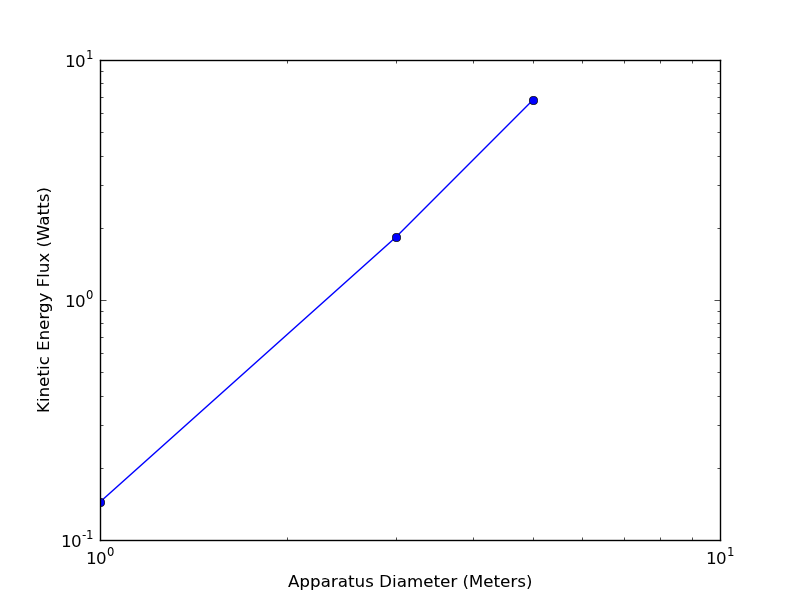
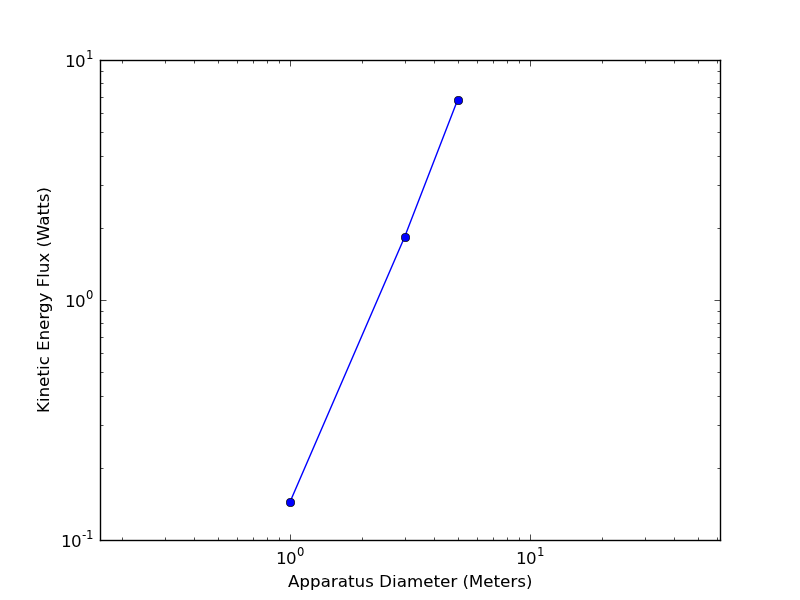
updating image, previous was wong (aspect ratio was off)

diff --git a/disputatio/causa/scaling/proposal.tex b/disputatio/causa/scaling/proposal.tex
@@ -177,6 +177,19 @@ kinetic energy to scale with some unknown exponent of the diameter,
 k \propto D^\alpha. 
 \end{equation}
 
+\begin{figure}[!htb]
+  \begin{center}
+    \includegraphics[width = 12 cm]{figs/ke_regression}
+    \caption{The kinetic energy fluxes for the three configurations on a
+   log-log plot}
+    \label{fig:ke_exponent}
+  \end{center}
+\end{figure}
+
+Figure \ref{fig:ke_exponent} is a first attempt at estimating the
+exponent of $\alpha$. Here, we plot the kinetic energy for our available
+runs on a log-log plot. 
+
 The exponent would likely be an integer power, although this is not necessarily so. Some preliminary 
 analysis has shown that the exponent should be to the fourth power. We will investigate what this scaling might be 
 using essentially field data from vorticies observed in the field. 

diff --git a/disputatio/causa/scaling/python/ke_exponent.py b/disputatio/causa/scaling/python/ke_exponent.py
@@ -7,11 +7,8 @@ x = np.array([1.0,3.0,5.0])
 y = np.array([0.144,1.826,6.842])
 
 plt.loglog(x, y, '-o', basex=10)
-#plt.plot(x,y,'-o',color='black',label='Simulation Data')
 
 plt.legend(loc='best')
-#plt.xlim(0.0,6)
-#plt.ylim(0.0,10)
 #
 # plot
 #
@@ -19,6 +16,7 @@ plt.ylabel("Kinetic Energy Flux (Watts)")
 plt.xlabel("Apparatus Diameter (Meters)")
 
 #plt.show()
+plt.axes().set_aspect('equal', 'datalim')
 plt.savefig('ke_exponent.png')
 
 
